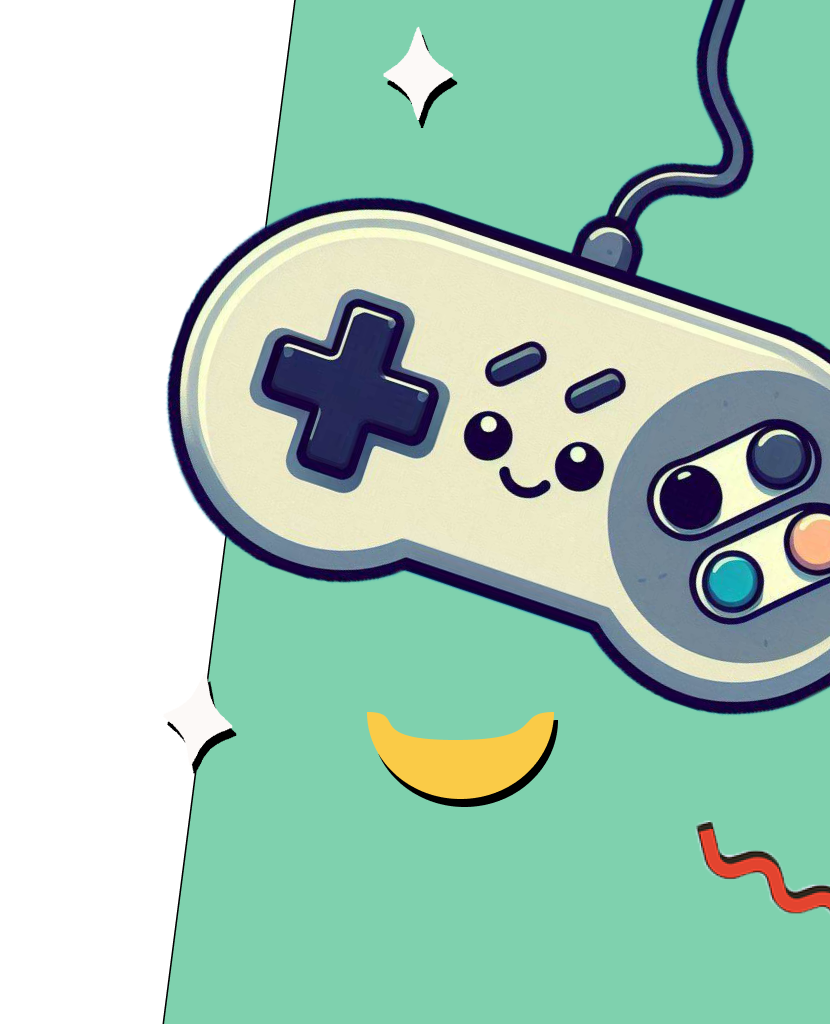
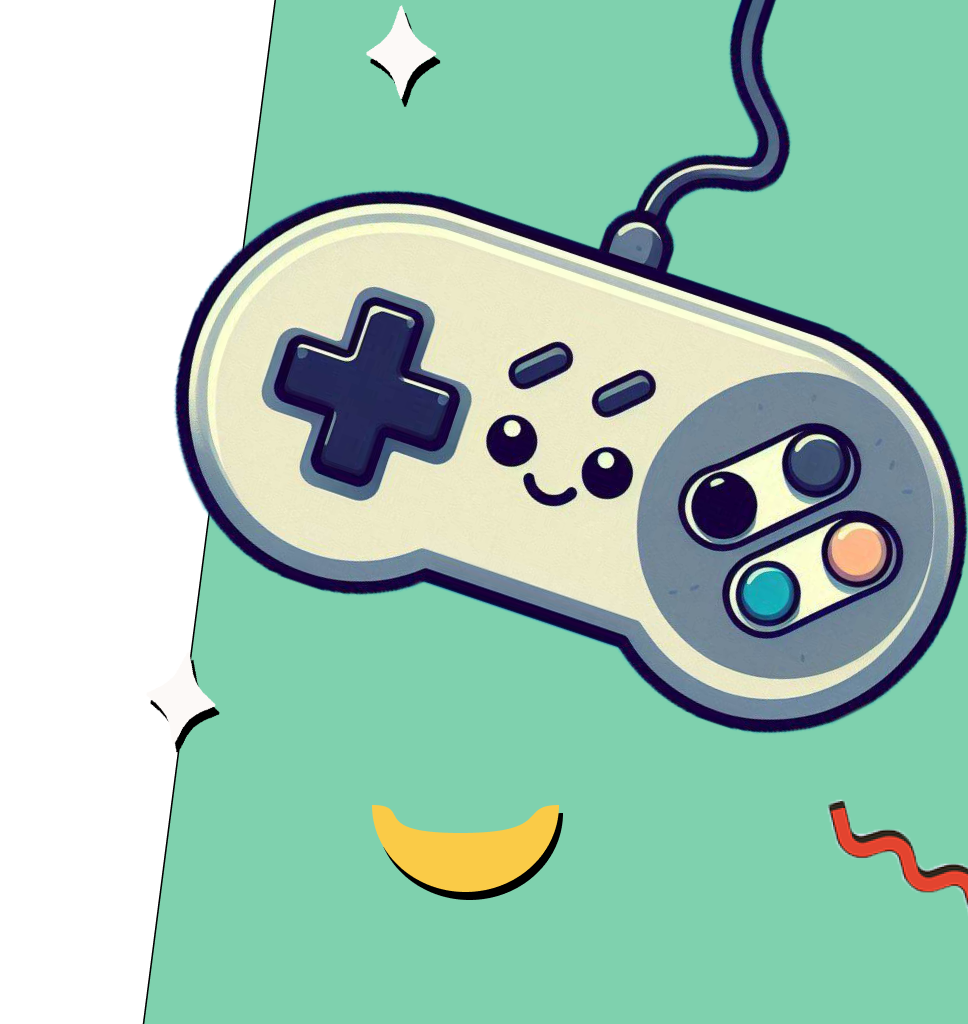
:lipstick: Style: landing page

diff --git a/styles/style.css b/styles/style.css
@@ -3,13 +3,14 @@
 body {
 	background-color: #fcf9f4;
 	display: flex;
+	justify-content: space-between;
 	flex-direction: column;
-	gap: 48px;
+	gap: 52px;
     height: 100vh;
 }
 .header {
 	margin: 0 128px;
-	padding: 2rem 0 2rem 1rem;
+	padding: 1rem 0 1rem 0.5rem;
 	font-family: "Open Sans", sans-serif;
 	font-weight: 500;
 	font-size: 16px;
@@ -22,6 +23,7 @@ body {
 main,
 footer {
 	margin: 0 128px;
+	padding: 0 0 1rem 0.5rem;
 }
 main {
 	display: flex;
@@ -32,22 +34,29 @@ main {
 	position: absolute;
 	top: 0;
 	right: 0;
-	width: 50%; /* 50% da largura da tela */
+	width: 65%; /* 50% da largura da tela */
 	height: 100%; /* 100% da altura da tela */
 	overflow: hidden;
+	display: flex;
+	align-items: end;
+	
+	justify-content: end;
+	
 }
+
 .banner img {
 	position: absolute;
 	top: 0;
-	left: 0;
-	width: 100%;
+	right: 0;
+	width: 60%;
 	height: 100%;
 	object-fit: cover;
 }
 .CTA h1 {
 	font-family: "Josefin Sans", sans-serif;
-	font-size: 150px;
+	font-size: 210px;
 	font-weight: bold;
+	line-height: 165px;
 	color: #ff8c5b;
 	text-shadow: 3px 6px #000000;
 }
@@ -70,9 +79,7 @@ main {
 	box-shadow: 3px 6px black;
 	gap: 10px;
 }
-footer {
-	margin-top: 32px;
-}
+
 footer nav ul {
 	display: flex;
 	flex-direction: row;
@@ -80,5 +87,5 @@ footer nav ul {
 }
 
 .ico {
-	width: 30px;
+	width: 24px;
 }

diff --git a/index.html b/index.html
@@ -28,15 +28,22 @@
 					<img class="icon-arrow" src="/assets//Arrow 1.png" alt="" />
 				</button>
 			</section>
-			<section class="banner"><img  src="/assets/Group 18 (1).png" alt=""></section>
+			<section class="banner">
+			
+				<img src="/assets/Group 18 (1).png" alt="" />
+			</section>
 		</main>
 
 		<footer>
 			<nav>
 				<ul>
-					<li><img class="ico" src="/assets/github.png" alt=""></li>
-					<li><img class="ico" src="/assets/linkedin.png" alt=""></li>
-					<li><img class="ico" src="/assets/discord.png" alt=""></li>
+					<li><img class="ico" src="/assets/github.png" alt="" /></li>
+					<li>
+						<img class="ico" src="/assets/linkedin.png" alt="" />
+					</li>
+					<li>
+						<img class="ico" src="/assets/discord.png" alt="" />
+					</li>
 				</ul>
 			</nav>
 		</footer>
